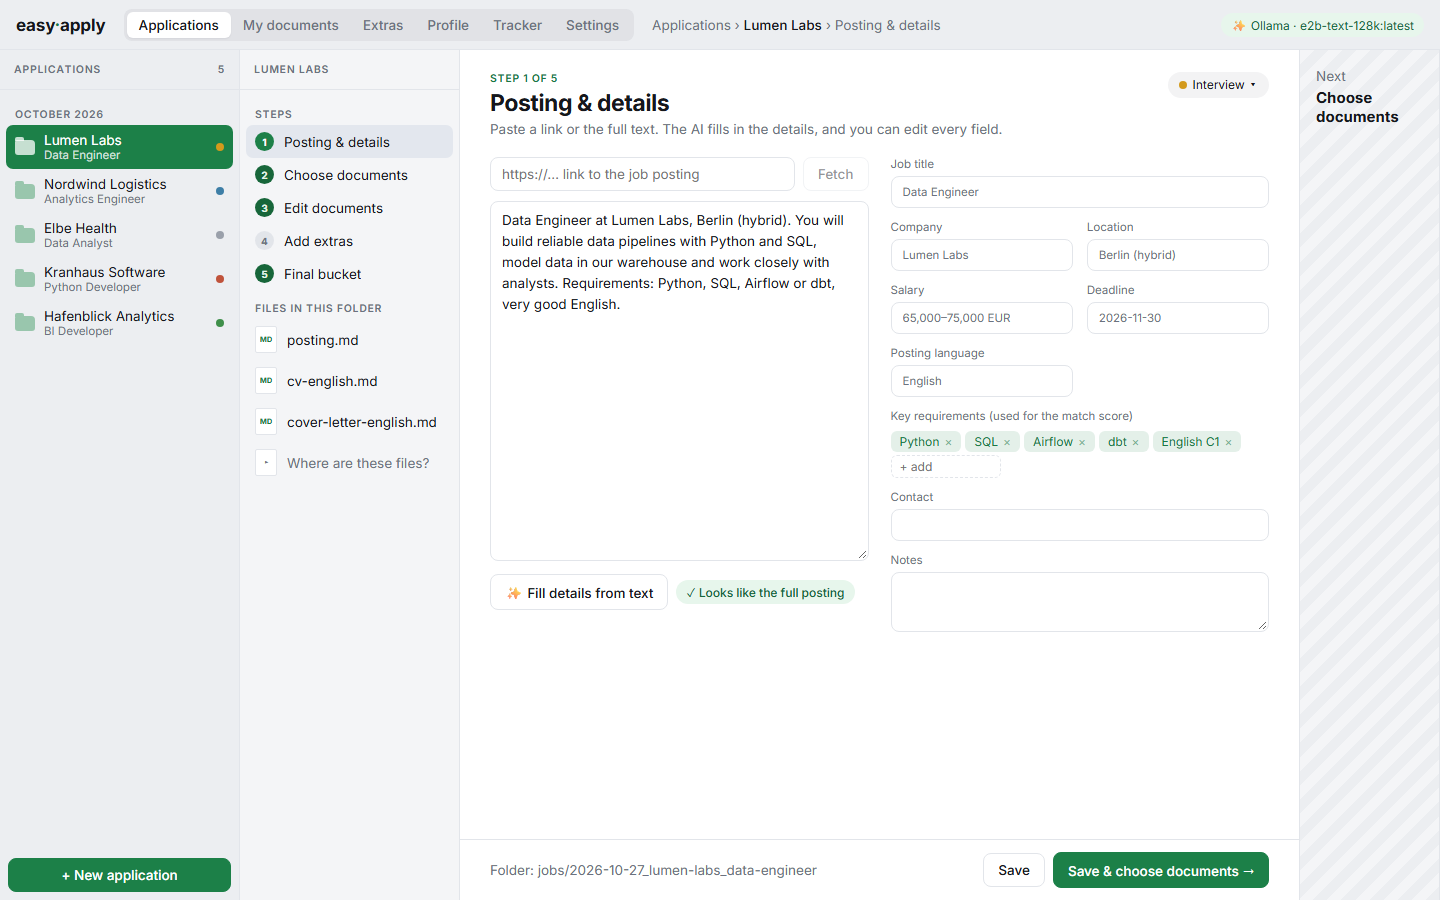
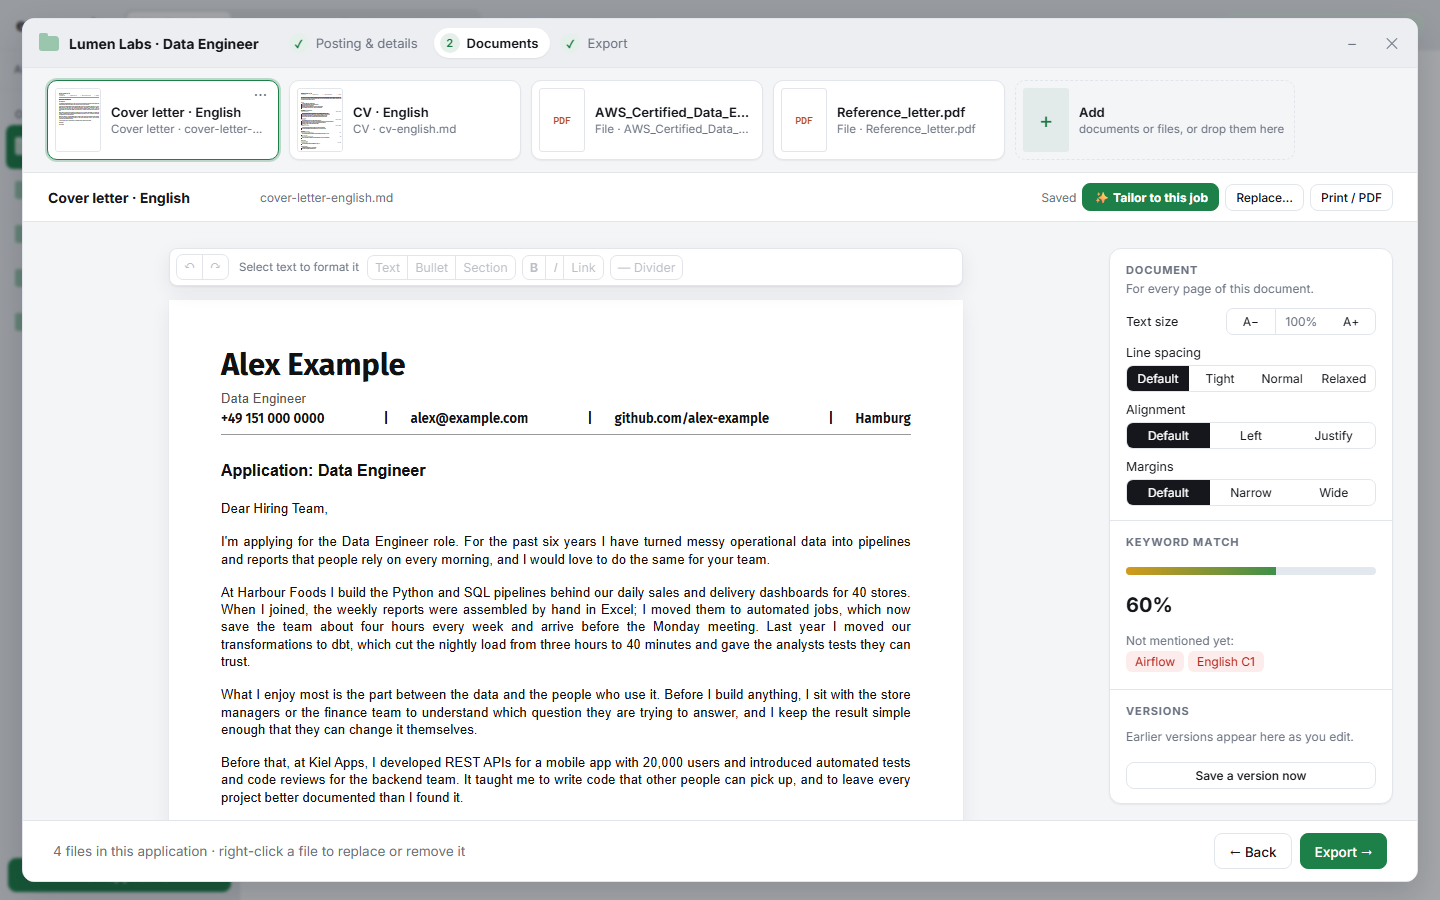
README and technical notes for the redesign, new screenshots, offline test updated

diff --git a/docs/TECHNICAL.md b/docs/TECHNICAL.md
@@ -2,7 +2,7 @@
 
 For what the app does, see the [README](../README.md). This page is for running, building and changing it.
 
-A local-first app for job applications. Each job gets its own folder. You copy your CV and cover-letter templates into it, tailor them, keep every version, and export them in the order you choose.
+A local-first app for job applications. Each job gets its own folder. You copy your CV and cover letter into it, tailor them, keep every version, and export them in the order you choose.
 
 ## Run
 
@@ -11,7 +11,7 @@ npm install
 npm run dev
 ```
 
-Then open http://localhost:5173. The app runs entirely in the browser. On first start it asks where to keep your files and a few onboarding questions (your details, starter templates, AI).
+Then open http://localhost:5173. The app runs entirely in the browser. On first start it asks where to keep your files, then the app's look, your CV and letter (or a starter layout), and an AI provider (optional).
 
 - **A folder on this computer** (Chrome, Edge): the app reads and writes plain files in the folder you pick. After a browser restart it asks once for permission again, unless you choose "Allow on every visit".
 - **Inside this browser** (any browser): private browser storage; files are reachable only through the app.
@@ -26,13 +26,14 @@ Then open http://localhost:5173. The app runs entirely in the browser. On first 
 
 ```
 <your folder>/
-  profile/profile.json            values for {{placeholders}}
-  templates/*.md                  your CV / cover-letter templates (Markdown + frontmatter)
-  extras/                         certificates, references …
+  templates/*.md                  Documents: your CVs and cover letters (Markdown + frontmatter)
+  extras/                         Documents › Files: certificates, references …
   jobs/<date>_<company>_<role>/
     job.json  posting.md          details, status history, posting snapshot
     cv-en.md  cover-en.md         this job's own copies — edit freely
+    <certificate>.pdf             files added to this application
     versions/                     earlier versions of each document
+    .removed/                     documents taken out of this application
 ```
 
 AI settings and keys are kept in the browser (IndexedDB), never in the folder.
@@ -41,43 +42,56 @@ Code: `shared/` holds everything that does not depend on where it runs (document
 
 ## Export
 
-Step 5 (Final bucket) puts documents, attached PDFs and images in the order you set (drag or arrows) and shows a live preview of the merged PDF. **Download one PDF** gives that file; **Download zip** gives the merged PDF plus every file on its own, numbered in order. Files that can't be merged (e.g. .docx) go into the zip only.
+Step 3 (Export) puts documents, attached PDFs and images in the order you set (drag, or the arrows) and previews the merged PDF on request. **Download one PDF** gives that file; **Download zip** gives the merged PDF plus every file on its own, numbered in order; ⬇ next to a file downloads just that one. Files that can't be merged (e.g. .docx) go into the zip only.
+
+Pages: `web/src/paginate.ts` decides where pages break (A4, 12 mm top and bottom margins; a heading never stays alone at the bottom), once, for the editor and the PDF alike. The editor shows the pages; the PDF gets a page break at the same places, so both match.
 
 Documents become PDFs through the local helper, which prints them with the Edge or Chrome already installed (Playwright drives it; no browser is downloaded; set `EASYCV_BROWSER` to use another Chromium). The PDFs have real, selectable text, which applicant tracking systems need. Fonts are bundled with the app and embedded into each page sent to the helper, so PDFs look the same offline. Without the helper, "print the documents with the browser" still works.
 
 ## Backup
 
-Settings › Your files › **Download backup (.zip)** saves everything (profile, CVs and letters, extras, every application with its versions). **Restore from backup…** adds and replaces files and never deletes; any file it replaces is kept in `.trash/restore-<time>/`. Backup zips are checked before anything is written: only paths inside the app's folders, at most 20,000 files and 1 GB unpacked. With browser storage, a reminder appears once you have a few applications and no backup in two weeks.
+Settings › Your files › **Download backup (.zip)** saves everything (your documents and files, every application with its versions). **Restore from backup…** adds and replaces files and never deletes; any file it replaces is kept in `.trash/restore-<time>/`. Backup zips are checked before anything is written: only paths inside the app's folders, at most 20,000 files and 1 GB unpacked. With browser storage, a reminder appears once you have a few applications and no backup in two weeks.
 
 ## Appearance
 
-Settings › Appearance (also the first onboarding step) picks the look of the app — Graphite (default), Slate or Midnight — and an accent colour. Looks are sets of CSS tokens in `web/src/styles.css`; accents live in `web/src/appearance.ts`, each with shades checked for contrast on light surfaces and on Midnight's dark columns. The choice is stored per device. Documents are not affected; they keep their resume theme.
+Settings › Appearance (also the first onboarding step) picks the look of the app — Graphite (default), Slate or Midnight — and an accent colour. Looks are sets of CSS tokens in `web/src/styles.css`; accents live in `web/src/appearance.ts`, each with shades checked for contrast on light surfaces and on Midnight's dark columns. The choice is stored per device. Documents are not affected; they keep their own look.
 
 ## Documents
 
-Everything starts from your CV. Under **Documents** (stored as `templates/*.md`), upload it as Word or PDF. A PDF holding a cover letter and a CV is split into both. Mark one CV and one cover letter per language as **main** (★). Your main CV is the source of facts for every AI suggestion, and new applications start from both ("Save & start with your CV and letter"). When you upload a letter written for one job, the company, role, date and job location it mentions become placeholders (you confirm each), so every new application fills them in; ✨ Tailor then rewrites the job-specific paragraphs. Deleting moves a file to `.trash/`.
+Everything starts from your CV. Under **Documents** (stored as `templates/*.md`, files in `extras/`), upload it as Word or PDF; a PDF holding a cover letter and a CV is split into both. Documents open for editing in their own window. Adding a document to an application copies it into the application's folder; only that copy changes. Deleting moves a file to `.trash/`.
 
+**Upload:** Documents › "Upload CV or letter", the drop area, or during onboarding. Files are read in the browser (mammoth for Word, pdf.js for PDF); nothing is uploaded. It recognises the name and contact line, section headings (ALL CAPS, bold through a Word style, or common section words in English and German), entries written as "title + table row company | dates" or "title ⇥ dates", bullets, bold, italic and links. A layout table (a photo beside the name and contact lines) is read as text, in order. Images are left out. You review the result with a live preview before saving. Old .doc files need to be saved as .docx first.
 
-**Upload a CV:** Documents › "Upload CV (Word or PDF)…", or during onboarding (the second step). Files are read in the browser (mammoth for Word, pdf.js for PDF) and nothing is uploaded. It recognises the name and contact line, section headings (ALL CAPS or common section words in English and German), entries written as "title + table row company | dates" or "title ⇥ dates", bullets, bold, italic and links. Your profile details in the header become placeholders, and an empty profile can be filled from the CV. You review the result with a live preview before saving. Old .doc files need to be saved as .docx first.
+**Your file's own look** (`theme: original`, `look:` in the frontmatter): a Word file's fonts, sizes, colours, bold and capitals, heading lines, line spacing, paragraph spacing, alignment and side margins are read from its styles (`shared/docxlook.ts`); a PDF gives its fonts, sizes, line spacing and margins (`shared/pdflook.ts`). They are drawn by `.t-original` in `web/src/themes.css` through CSS variables (`shared/look.ts`, which checks every value). Fonts come from the computer, with a bundled stand-in for missing ones.
 
-Templates are Markdown. Each block (heading, paragraph, bullet) can be edited on its own by clicking it on the page:
+**Examples:** four complete pairs (CV + cover letter) of a made-up person, in the Classic, Two-column, Elegant and Academic looks (`shared/examples.ts`); the looks are `.t-classic`, `.t-sidebar`, `.t-serif` and `.t-academic` in `web/src/themes.css`.
+
+Documents are Markdown. The page itself is the editor (`web/src/DocEditor.tsx`, `web/src/pageEdit.ts`): click anywhere and type, select across lines, Ctrl+Z / Ctrl+Shift+Z, copy and paste between documents (as Markdown, HTML and plain text; Word and Google Docs HTML is read on paste). Each change is applied to the document's blocks and the page is drawn again.
 
 ```markdown
-# {{name}}
-{{phone}} | {{email}} | {{website}}
+# Alex Example
+Data Engineer
++49 151 000 0000 | alex@example.com | Hamburg
+
+---
 
 ## Professional Experience
-### Job title | 01/2024 – now
-Company, City
+### Data Engineer | 03/2023 – present
+Harbour Foods, Hamburg
 - What you did
 ```
 
-The formatting bar above the page works on the line you are editing, or on several lines selected by dragging across them or with Shift+click (Text, Bullet, Section, Entry; **B**old Ctrl+B, *I*talic Ctrl+I, Link Ctrl+K, Divider) and on the whole document (text size, line spacing, left/justified, margins). Whole-document settings are saved in the file's frontmatter as `style:` and also apply to print/PDF. Per-word font sizes are deliberately not offered: Markdown can't store them, and a CV reads better when it is consistent.
+The formatting bar above the page acts on the selection (Text, Bullet, Section; **B**old Ctrl+B, *I*talic Ctrl+I, Link Ctrl+K, Divider). The panel on the right holds settings for the whole document (text size, line spacing, alignment, margins), saved in the frontmatter as `style:`, plus the keyword match and versions. A divider right under the contact line takes the place of the look's own line.
 
-Placeholders come from Profile (`{{name}}`, `{{email}}` …) and from the job (`{{company}}`, `{{job_title}}`, `{{job_location}}`, `{{today}}`). They are filled in once, when a template is copied into a job.
-
-Themes live in `web/src/themes.css`: Classic, Sidebar, Serif and Academic. To add one, add a `.t-<name>` block there and an entry in `THEMES` in `shared/render.ts`.
+Placeholders such as `{{company}}` are no longer used; ones in older documents are still filled in when a document is copied into an application.
 
 ## AI
 
-In Settings › AI providers, add as many as you like: Ollama, LM Studio, OpenRouter, OpenAI, another OpenAI-compatible API, or Gemini. They form a fallback chain, tried top to bottom (drag or use the arrows to reorder). Each has a timeout and optional limits per minute and per 24 hours, prefilled with known free-tier numbers (Gemini, OpenRouter `:free` models) that you can adjust. A provider that is at its limit, cooling down after a "too many requests" answer, slow or failing is skipped; if every provider is only waiting for its limit, Easy Apply waits for the next free slot (up to a minute) instead of going over. Usage is counted in this browser, and the title bar shows what the chain is doing. Calls go straight from the browser to the provider. Ollama accepts localhost pages by default; for a hosted copy set `OLLAMA_ORIGINS` to its address. In LM Studio, turn on CORS. The AI fills in job details from a posting, and tailors documents one part at a time: in the editor, turn on **✨ Tailor** (or press ✨ while editing a line), click a bullet or paragraph, and review the word diff. Accept saves it and keeps the earlier text as a version; Edit, Retry (optionally with a wish such as "shorter") and Reject do what they say. The model sees the full posting and all of the job's documents, and may only use facts from them. Name, contact, entry titles, dates and company lines are left for you to edit by hand. If a suggestion uses a posting keyword that none of your documents mention, the card warns you before you accept it.
+In Settings › AI providers, add as many as you like: Ollama, LM Studio, OpenRouter, OpenAI, another OpenAI-compatible API, or Gemini. They form a fallback chain, tried top to bottom (drag or use the arrows to reorder). Each has a timeout and optional limits per minute and per 24 hours, prefilled with known free-tier numbers (Gemini, OpenRouter `:free` models) that you can adjust. A provider that is at its limit, cooling down after a "too many requests" answer, slow or failing is skipped; if every provider is only waiting for its limit, Easy Apply waits for the next free slot (up to a minute) instead of going over. Usage is counted in this browser, and the title bar shows what the chain is doing. Calls go straight from the browser to the provider. Ollama accepts localhost pages by default; for a hosted copy set `OLLAMA_ORIGINS` to its address. In LM Studio, turn on CORS. The AI fills in job details from a posting, and tailors documents one part at a time: in the editor, turn on **✨ Tailor** (or press ✨ while editing a line), click a bullet or paragraph, and review the word diff. Accept saves it and keeps the earlier text as a version; Edit, Retry (optionally with a wish such as "shorter") and Reject do what they say. The model sees the full posting, all of the job's documents and your CV under Documents, and may only use facts from them. Name, contact, entry titles, dates and company lines are left for you to edit by hand. If a suggestion uses a posting keyword that none of your documents mention, the card warns you before you accept it.
+
+## Tests
+
+```bash
+npm test                                    # unit tests (vitest)
+cd server && node test/live/pwa.mjs <dir>   # offline, update and broken-update checks of a production build in headless Edge
+```

diff --git a/README.md b/README.md
@@ -4,20 +4,26 @@
 
 After a few weeks of job hunting, the files pile up: `CV_final.docx`, `CV_final_v2_EN.docx`, `Cover_Letter_Acme_new.pdf`… Which version went to which company? Did you change the German one too? What exactly did you send the company that just invited you to an interview?
 
-Easy Apply keeps it all in order. Every application gets its own folder, holding the posting, the exact CV and letter you sent, every earlier version, and where things stand.
+Easy Apply keeps it all in order. Think in folders and files: every application gets its own folder, holding the posting, the exact CV and letter you sent, every earlier version, and where things stand.
 
-![Applications, each with its own folder of documents](docs/screenshots/applications.png)
+![An application in its own window: its files in a strip, the one you picked open for editing](docs/screenshots/applications.png)
 
 ## One place for every application
 
 **A folder per job.** When you add a job, Easy Apply creates its folder. That folder holds:
 - the posting, saved in case the ad disappears;
 - the job's details: company, role, deadline and contact;
-- that job's own copy of your CV and cover letter.
+- that job's own copies of your CV and cover letter, plus any certificates or references you add.
 
-**Your originals stay clean.** Your CVs and cover letters live under *Documents*. Each application starts from a copy of your main ones, so changing a letter for one company never touches the original or any other application.
+**One application, one window.** Each application opens in its own window, in three steps: the posting, the documents, the export. Minimise it like an email you are writing, look something up, and come back. It saves as you go and opens where you left off.
 
-![Documents: your CVs and cover letters, with the main ones marked](docs/screenshots/my-documents.png)
+**Your originals stay clean.** Your CVs, cover letters and files live under *Documents*. An application always works on its own copy, so changing a letter for one company never touches the original or any other application.
+
+![Documents: your CVs, cover letters and files, with a large preview](docs/screenshots/documents.png)
+
+**Your file keeps its look.** Upload your CV and cover letter as Word or PDF. Easy Apply keeps their own fonts, sizes, colours and spacing; it doesn't force a design on you. No CV yet? Start from one of four complete examples, each a CV with a matching letter.
+
+**Edit like in a word processor.** Click anywhere on the page and type. Select across lines, undo and redo, copy and paste between documents. The editor shows real pages, and the PDF breaks them in exactly the same places: what you see is what you send.
 
 **Every version kept.** Each change you make is saved, and earlier versions stay in the job's folder. You can always see what you sent, and go back to any version with one click.
 
@@ -25,9 +31,9 @@ Easy Apply keeps it all in order. Every application gets its own folder, holding
 
 ![The tracker](docs/screenshots/tracker.png)
 
-**Send it the same way every time.** Put the documents for a job in order (CV, letter, certificates, references), preview them, and download one PDF or a zip. You get the same clean result for every application, named the way you chose.
+**Export it the same way every time.** Drag the documents for a job into order (letter, CV, certificates, references), preview them, and download one PDF, a zip, or each file on its own. You get the same clean result for every application, named the way you chose.
 
-![Putting the documents in order, with a preview of the PDF](docs/screenshots/final-pdf.png)
+![Export: the order, one PDF or a zip, and a preview of exactly what goes out](docs/screenshots/export.png)
 
 ## Privacy first
 
@@ -41,13 +47,17 @@ Your CV is about as personal as documents get. Easy Apply treats it that way.
 
 ## Help along the way
 
-- **Upload what you have.** Bring in your existing CV and cover letter as Word or PDF. Easy Apply reads them for you, and a letter written for one company becomes reusable for the next.
 - **Fill in a job from its posting.** Paste the ad or its link, and AI (if you use it) fills in the details.
 - **Tailor with care.** Click a line to get a version matched to the job, and accept or reject it word by word. AI may only use facts from your own documents, and anything new is flagged.
-- **Start from an example.** No CV yet? Pick one of four complete examples (a CV and a matching letter) and replace the details with yours.
-- **What you see is what you send.** The editor shows real pages, and the PDF breaks them in exactly the same places.
+- **Recently used first.** Adding documents to an application shows what you used last on top, with a large preview, like a Finder window.
 
 ![A tailoring suggestion: what changes, word by word](docs/screenshots/tailor.png)
+
+## Good to know
+
+- Word files keep their look best. A PDF keeps its fonts and sizes, but not its colours.
+- Photos and other images inside a CV are left out; the text comes through.
+- Designer templates built from floating text boxes come in as text, but may need their order and headings fixed by hand.
 
 ## Get started
 

diff --git a/docs/AUDIT.md b/docs/AUDIT.md
@@ -6,7 +6,7 @@ This review covered security, data safety, failure modes, AI behaviour and the o
 
 | Check | Command | What it covers |
 |---|---|---|
-| Unit tests (79) | `npm test` | Store and files, rendering and injection, Markdown blocks, diff, posting parser, helper address rules, AI error handling, tailoring guards, Word import, fallback chain |
+| Unit tests (100) | `npm test` | Store and files, rendering and injection, Markdown blocks, diff, posting parser, helper address rules, AI error handling, tailoring guards, Word import and its look, page editor, fallback chain |
 | Offline and updates (18) | `npm run test:pwa` | First visit, fully offline use (including Word import), a normal update, an update that can't finish, recovery. Builds and serves the app and drives headless Edge. |
 | AI behaviour | `npm run test:ai` (needs Ollama) | Extraction and rewriting with German, hostile, cookie-wall, gibberish and very long input |
 | Types | `npm run typecheck` | Strict TypeScript, server and web |
